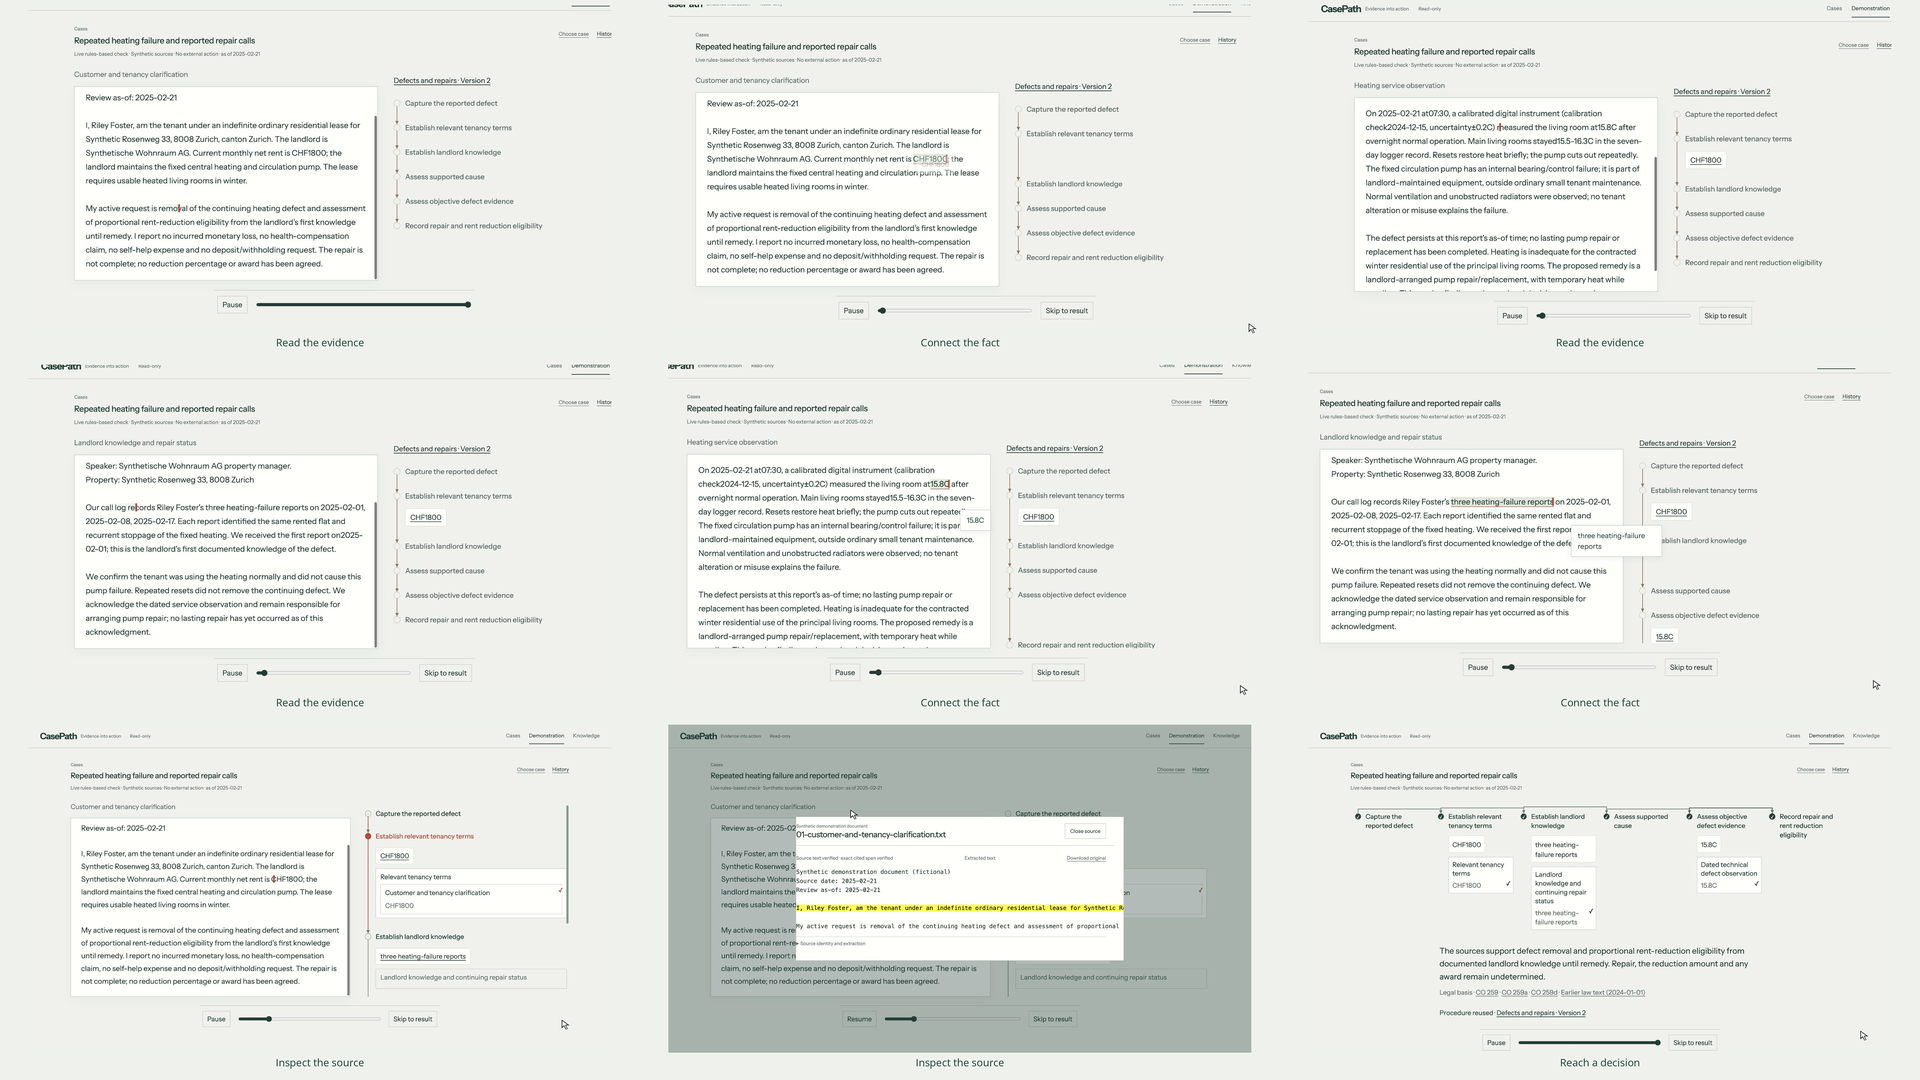
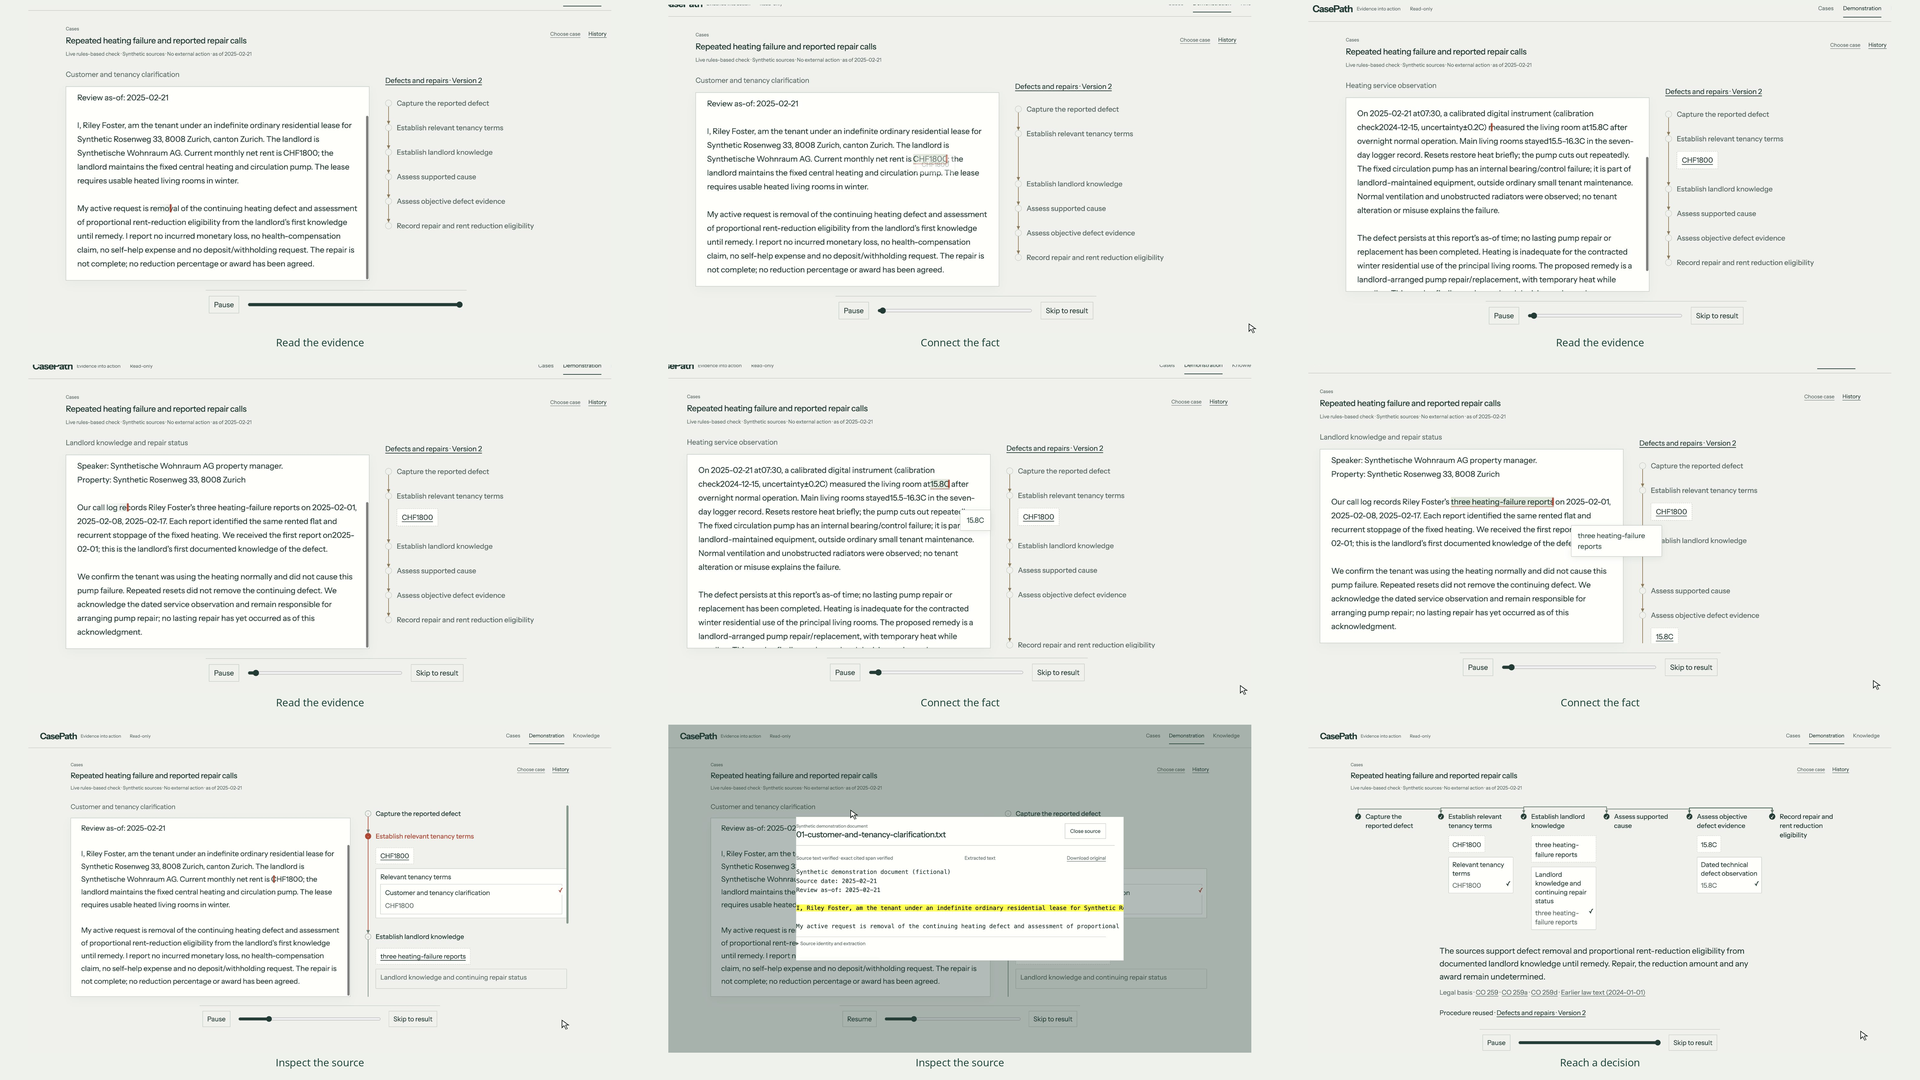
chore(media): preserve source and rail in camera framing

diff --git a/render-agentic-v4.py b/render-agentic-v4.py
@@ -116,6 +116,16 @@ class Movie:
   cx,cy=self.iw/2,self.ih/2
   if point:cx=(point[0]+point[2]/2)*self.sx*.2+self.iw*.4;cy=(point[1]+point[3]/2)*self.sy*.12+self.ih*.44
   return cx,cy,zoom
+ def keep_destinations(self,t,camera):
+  s=self.sample(t);cx,cy,z=camera
+  # Real source/rail bounds constrain the editorial crop; never erase a landing slot.
+  if s.get('dialog') or s.get('state')=='paused' or any(abs(stamp(e['t'])-t)<.9 for e in self.events if e.get('type')=='click'):return self.iw/2,self.ih/2,1.
+  rr=[rect(s.get(k)) for k in ['sourceRect','railRect']];rr=[r for r in rr if r]
+  if rr:
+   pad=12;left=max(0,min(r[0] for r in rr)-pad)*self.sx;right=min(self.cw,max(r[0]+r[2] for r in rr)+pad)*self.sx;top=max(0,min(r[1] for r in rr)-pad)*self.sy;bottom=min(self.ch,max(r[1]+r[3] for r in rr)+pad)*self.sy
+   z=min(z,self.iw/(right-left),self.ih/(bottom-top));cw,ch=self.iw/z,self.ih/z
+   cx=max(max(cw/2,right-cw/2),min(min(self.iw-cw/2,left+cw/2),cx));cy=max(max(ch/2,bottom-ch/2),min(min(self.ih-ch/2,top+ch/2),cy))
+  return cx,cy,z
  def caption(self,t):
   active=[label for a,b,label in self.labels if a<=t<=b]
   if active:return active[-1]
@@ -130,7 +140,7 @@ class Movie:
   if out_t>=self.ui_duration+self.final_freeze:
    for text,y,font in [('CasePath · Evidence into action',446,self.title_font),('Synthetic claims · recorded replay',540,self.sub_font)]:draw.text((W/2,y),text,font=font,fill=INK,anchor='mt')
    return im
-  t=self.input_time(min(out_t,self.ui_duration));src=self.frame(t);cx,cy,z=camera or self.camera(t);crop_w=self.iw/z;crop_h=self.ih/z;x=max(0,min(self.iw-crop_w,cx-crop_w/2));y=max(0,min(self.ih-crop_h,cy-crop_h/2));box=(x,y,x+crop_w,y+crop_h)
+  t=self.input_time(min(out_t,self.ui_duration));src=self.frame(t);cx,cy,z=self.keep_destinations(t,camera or self.camera(t));crop_w=self.iw/z;crop_h=self.ih/z;x=max(0,min(self.iw-crop_w,cx-crop_w/2));y=max(0,min(self.ih-crop_h,cy-crop_h/2));box=(x,y,x+crop_w,y+crop_h)
   # Real screenshot pixels only. Reserved caption matte never covers product content.
   maxw,maxh=1856,984;scale=min(maxw/crop_w,maxh/crop_h);ow,oh=round(crop_w*scale),round(crop_h*scale);left=(W-ow)//2;top=14+(984-oh)//2
   content=src.resize((ow,oh),Image.Resampling.LANCZOS,box=box);im.paste(content,(left,top))
@@ -162,7 +172,7 @@ class Movie:
    k=max(0,min(len(self.grid)-2,bisect.bisect_right(self.grid,t)-1));a,b=self.grid[k:k+2];q=0 if b==a else (t-a)/(b-a);ot=self.out_times[k]+q*(self.out_times[k+1]-self.out_times[k]);ot=max(0,min(self.ui_duration-.05,ot));sheet.paste(self.render_frame(ot).resize((640,360),Image.Resampling.LANCZOS),((i%3)*640,(i//3)*360));moments.append({'tile':i+1,'source_t':t,'film_t':ot})
   sheet.save(path);(path.parent/'contact-moments.json').write_text(json.dumps(moments,indent=2)+'\n')
  def receipt(self):
-  return {'source_commit':self.source_commit,'claim_id':CLAIM,'source_basis':'Mac-owned capture of actual public UI; Cloud network denial prevents independent Cloud live fetch. Source identity is bound to supplied capture receipt.','input_index_sha256':sha(self.args.input),'input_frames':len(self.frames),'input_manifest_sha256':hashlib.sha256(json.dumps(self.frame_manifest,sort_keys=True,separators=(',',':')).encode()).hexdigest(),'native_image_size':[self.iw,self.ih],'css_viewport':[self.cw,self.ch],'output_size':[W,H],'output_fps':FPS,'source_range':[self.start,self.end],'duration_seconds':self.duration,'ui_duration_seconds':self.ui_duration,'endcard_seconds':5,'editorial_final_image_hold_seconds':self.final_freeze,'final_native_frame_t':self.ft[-1],'actual_capture_end_t':self.end,'routine_speed':self.routine_speed,'realtime_windows':self.windows,'captions':self.labels,'camera':'Small eased camera motion from actual recorded head/fact rectangles; actual UI pixels only. No actor reconstruction or frame interpolation.','cursor':'Neutral editorial pointer from actual logged x/y events only; no invented inputs.','audio':False,'endcard':['CasePath · Evidence into action','Synthetic claims · recorded replay'],'limits':['Timeline protection derives from supplied samples/events; inspect contact sheet and EDL before final encoding.','CDP frames are variable-rate;30fps output uses actual preceding captured frames, never invented intermediate UI motion.','The final2.5s is an editorial hold of the actual last decision image, not added engine work.']}
+  return {'source_commit':self.source_commit,'claim_id':CLAIM,'source_basis':'Mac-owned capture of actual public UI; Cloud network denial prevents independent Cloud live fetch. Source identity is bound to supplied capture receipt.','input_index_sha256':sha(self.args.input),'input_frames':len(self.frames),'input_manifest_sha256':hashlib.sha256(json.dumps(self.frame_manifest,sort_keys=True,separators=(',',':')).encode()).hexdigest(),'native_image_size':[self.iw,self.ih],'css_viewport':[self.cw,self.ch],'output_size':[W,H],'output_fps':FPS,'source_range':[self.start,self.end],'duration_seconds':self.duration,'ui_duration_seconds':self.ui_duration,'endcard_seconds':5,'editorial_final_image_hold_seconds':self.final_freeze,'final_native_frame_t':self.ft[-1],'actual_capture_end_t':self.end,'routine_speed':self.routine_speed,'realtime_windows':self.windows,'captions':self.labels,'camera':'Small eased camera motion from actual recorded head/fact rectangles; the complete actual source/rail bounds constrain every crop. Full UI during native clicks/inspection. No actor reconstruction or frame interpolation.','cursor':'Neutral editorial pointer from actual logged x/y events only; no invented inputs.','audio':False,'endcard':['CasePath · Evidence into action','Synthetic claims · recorded replay'],'limits':['Timeline protection derives from supplied samples/events; inspect contact sheet and EDL before final encoding.','CDP frames are variable-rate;30fps output uses actual preceding captured frames, never invented intermediate UI motion.','The final2.5s is an editorial hold of the actual last decision image, not added engine work.']}
 def main():
  p=argparse.ArgumentParser();p.add_argument('input',type=Path);p.add_argument('--output',type=Path,required=True);p.add_argument('--css-size');p.add_argument('--duration',type=float,default=65);p.add_argument('--source-commit',default=COMMIT);p.add_argument('--plan-only',action='store_true');p.add_argument('--no-cursor',action='store_true');args=p.parse_args();args.output.mkdir(parents=True,exist_ok=True);movie=Movie(args);receipt=movie.receipt();(args.output/'edit-plan.json').write_text(json.dumps(receipt,indent=2)+'\n');movie.contact(args.output/'contact-sheet-agentic-v4.png')
  print(json.dumps({'status':'PLAN_READY','duration':movie.duration,'routine_speed':movie.routine_speed,'realtime_windows':len(movie.windows)}),flush=True)
